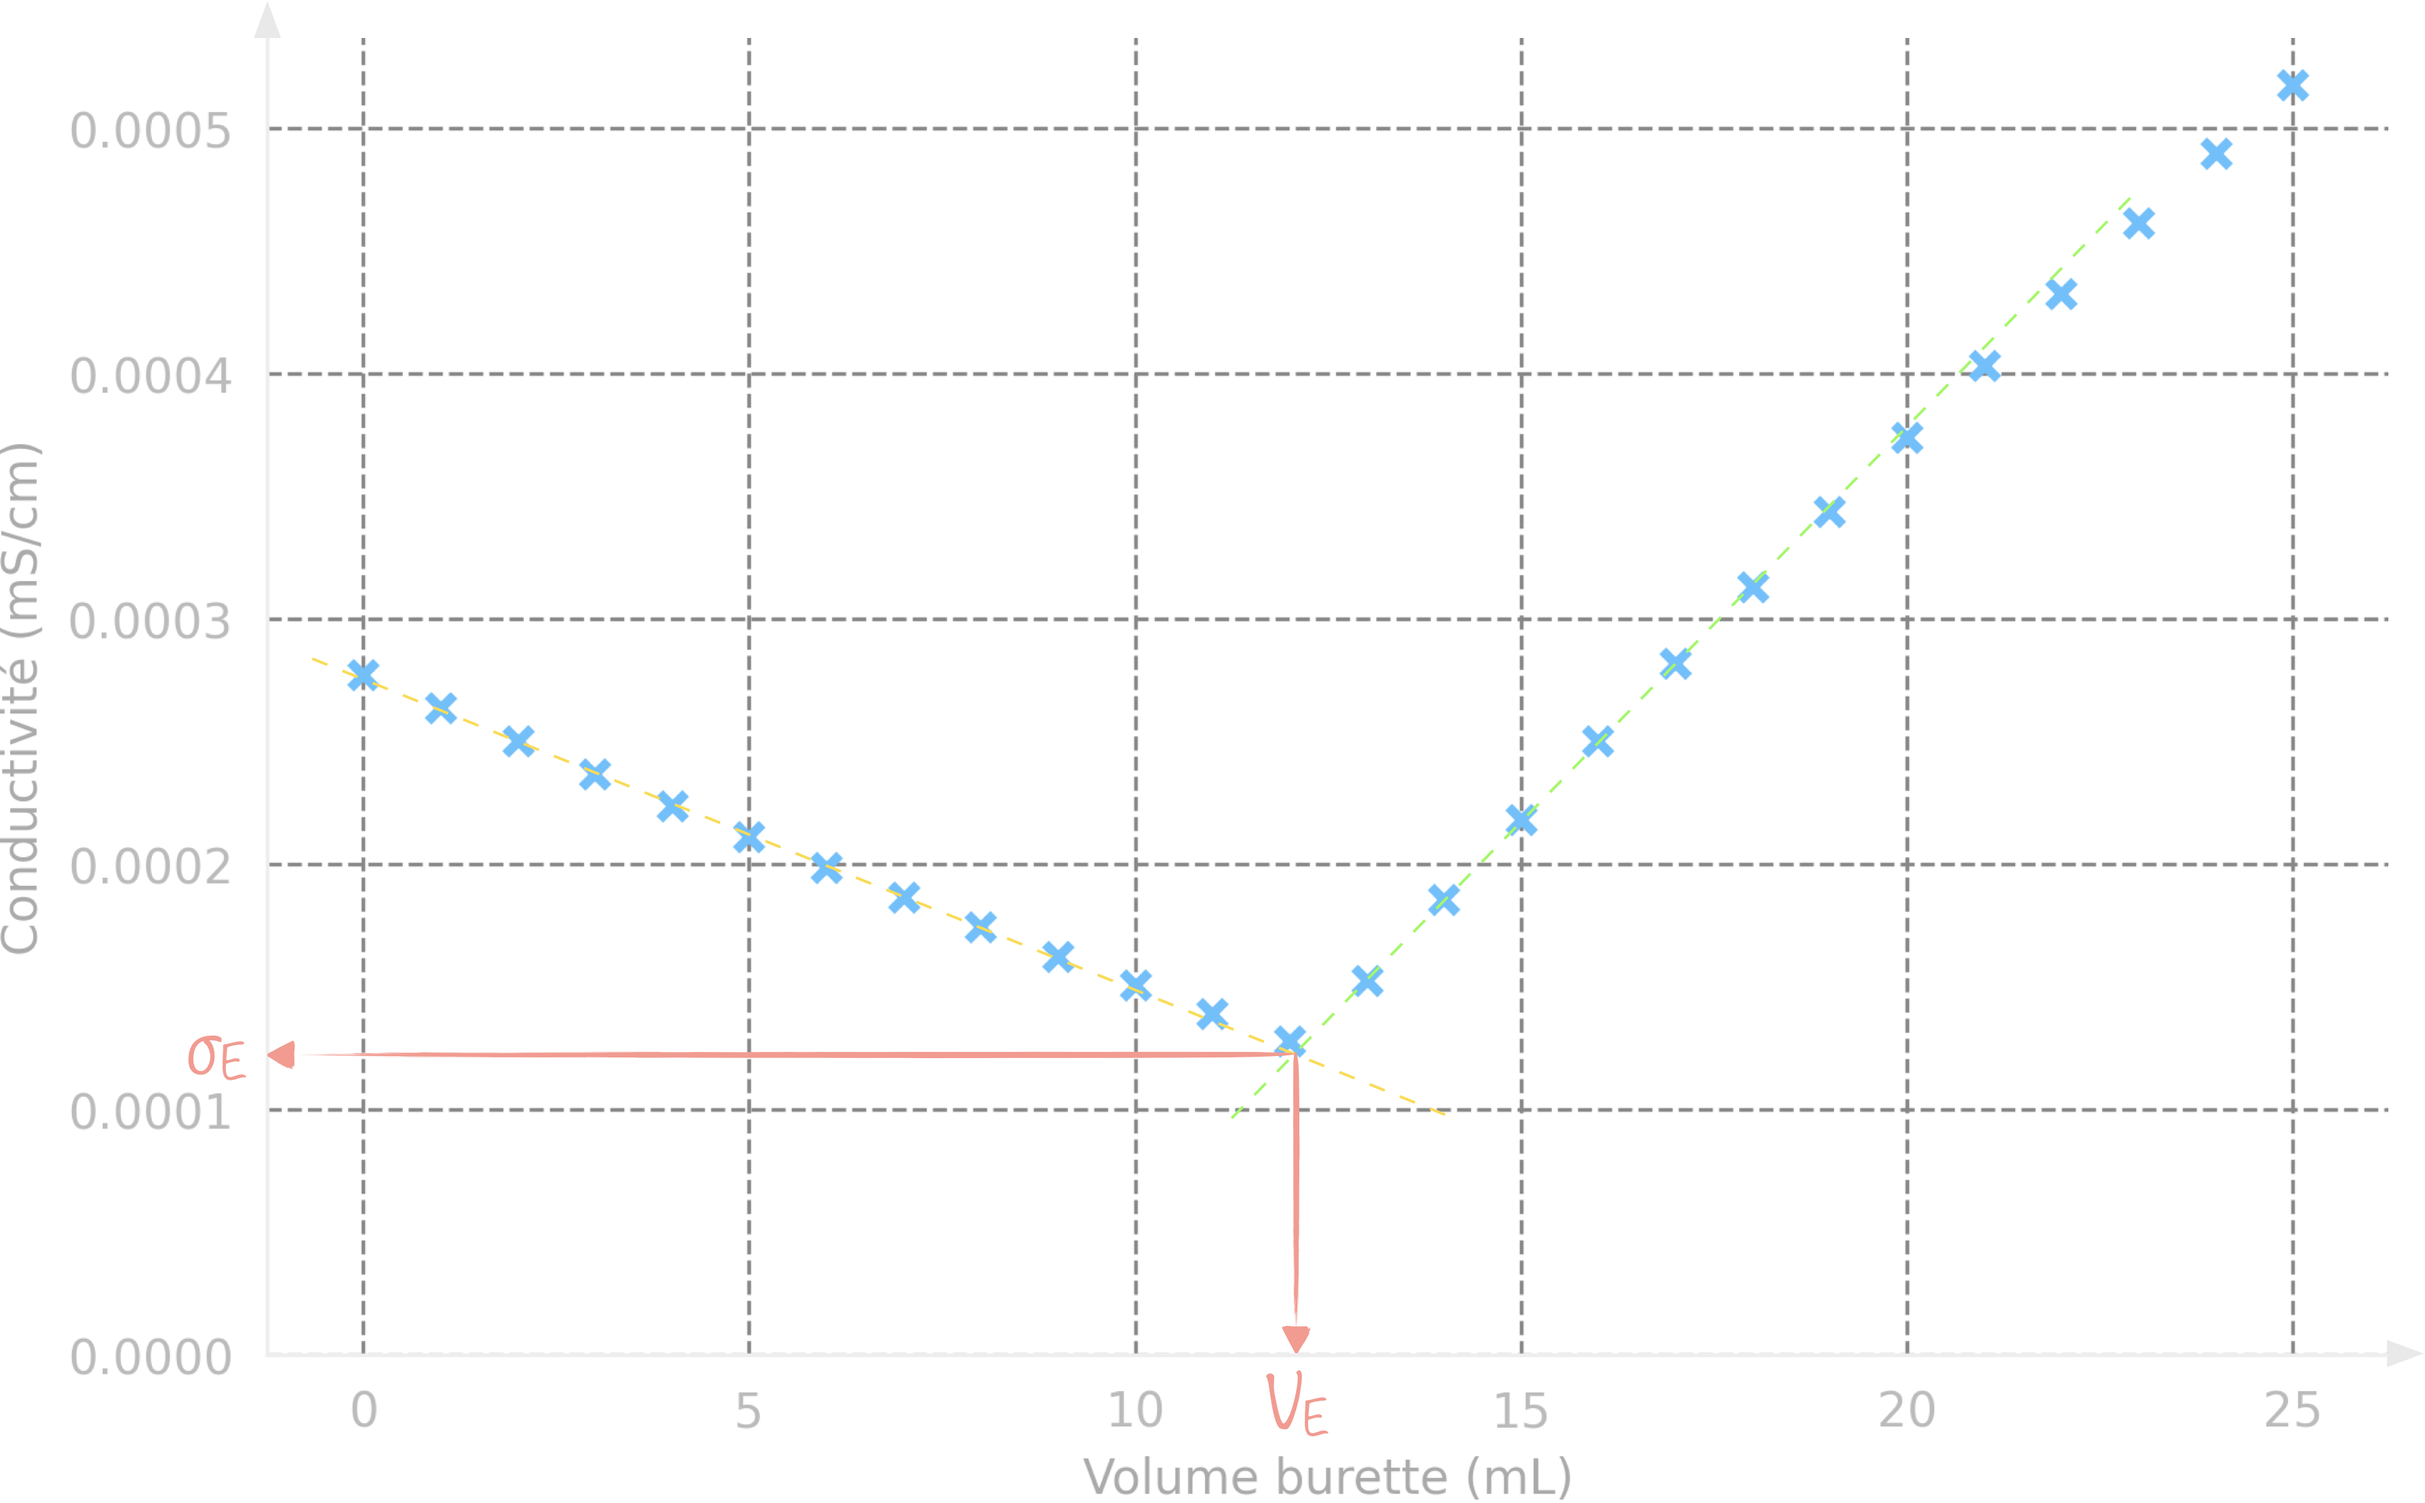
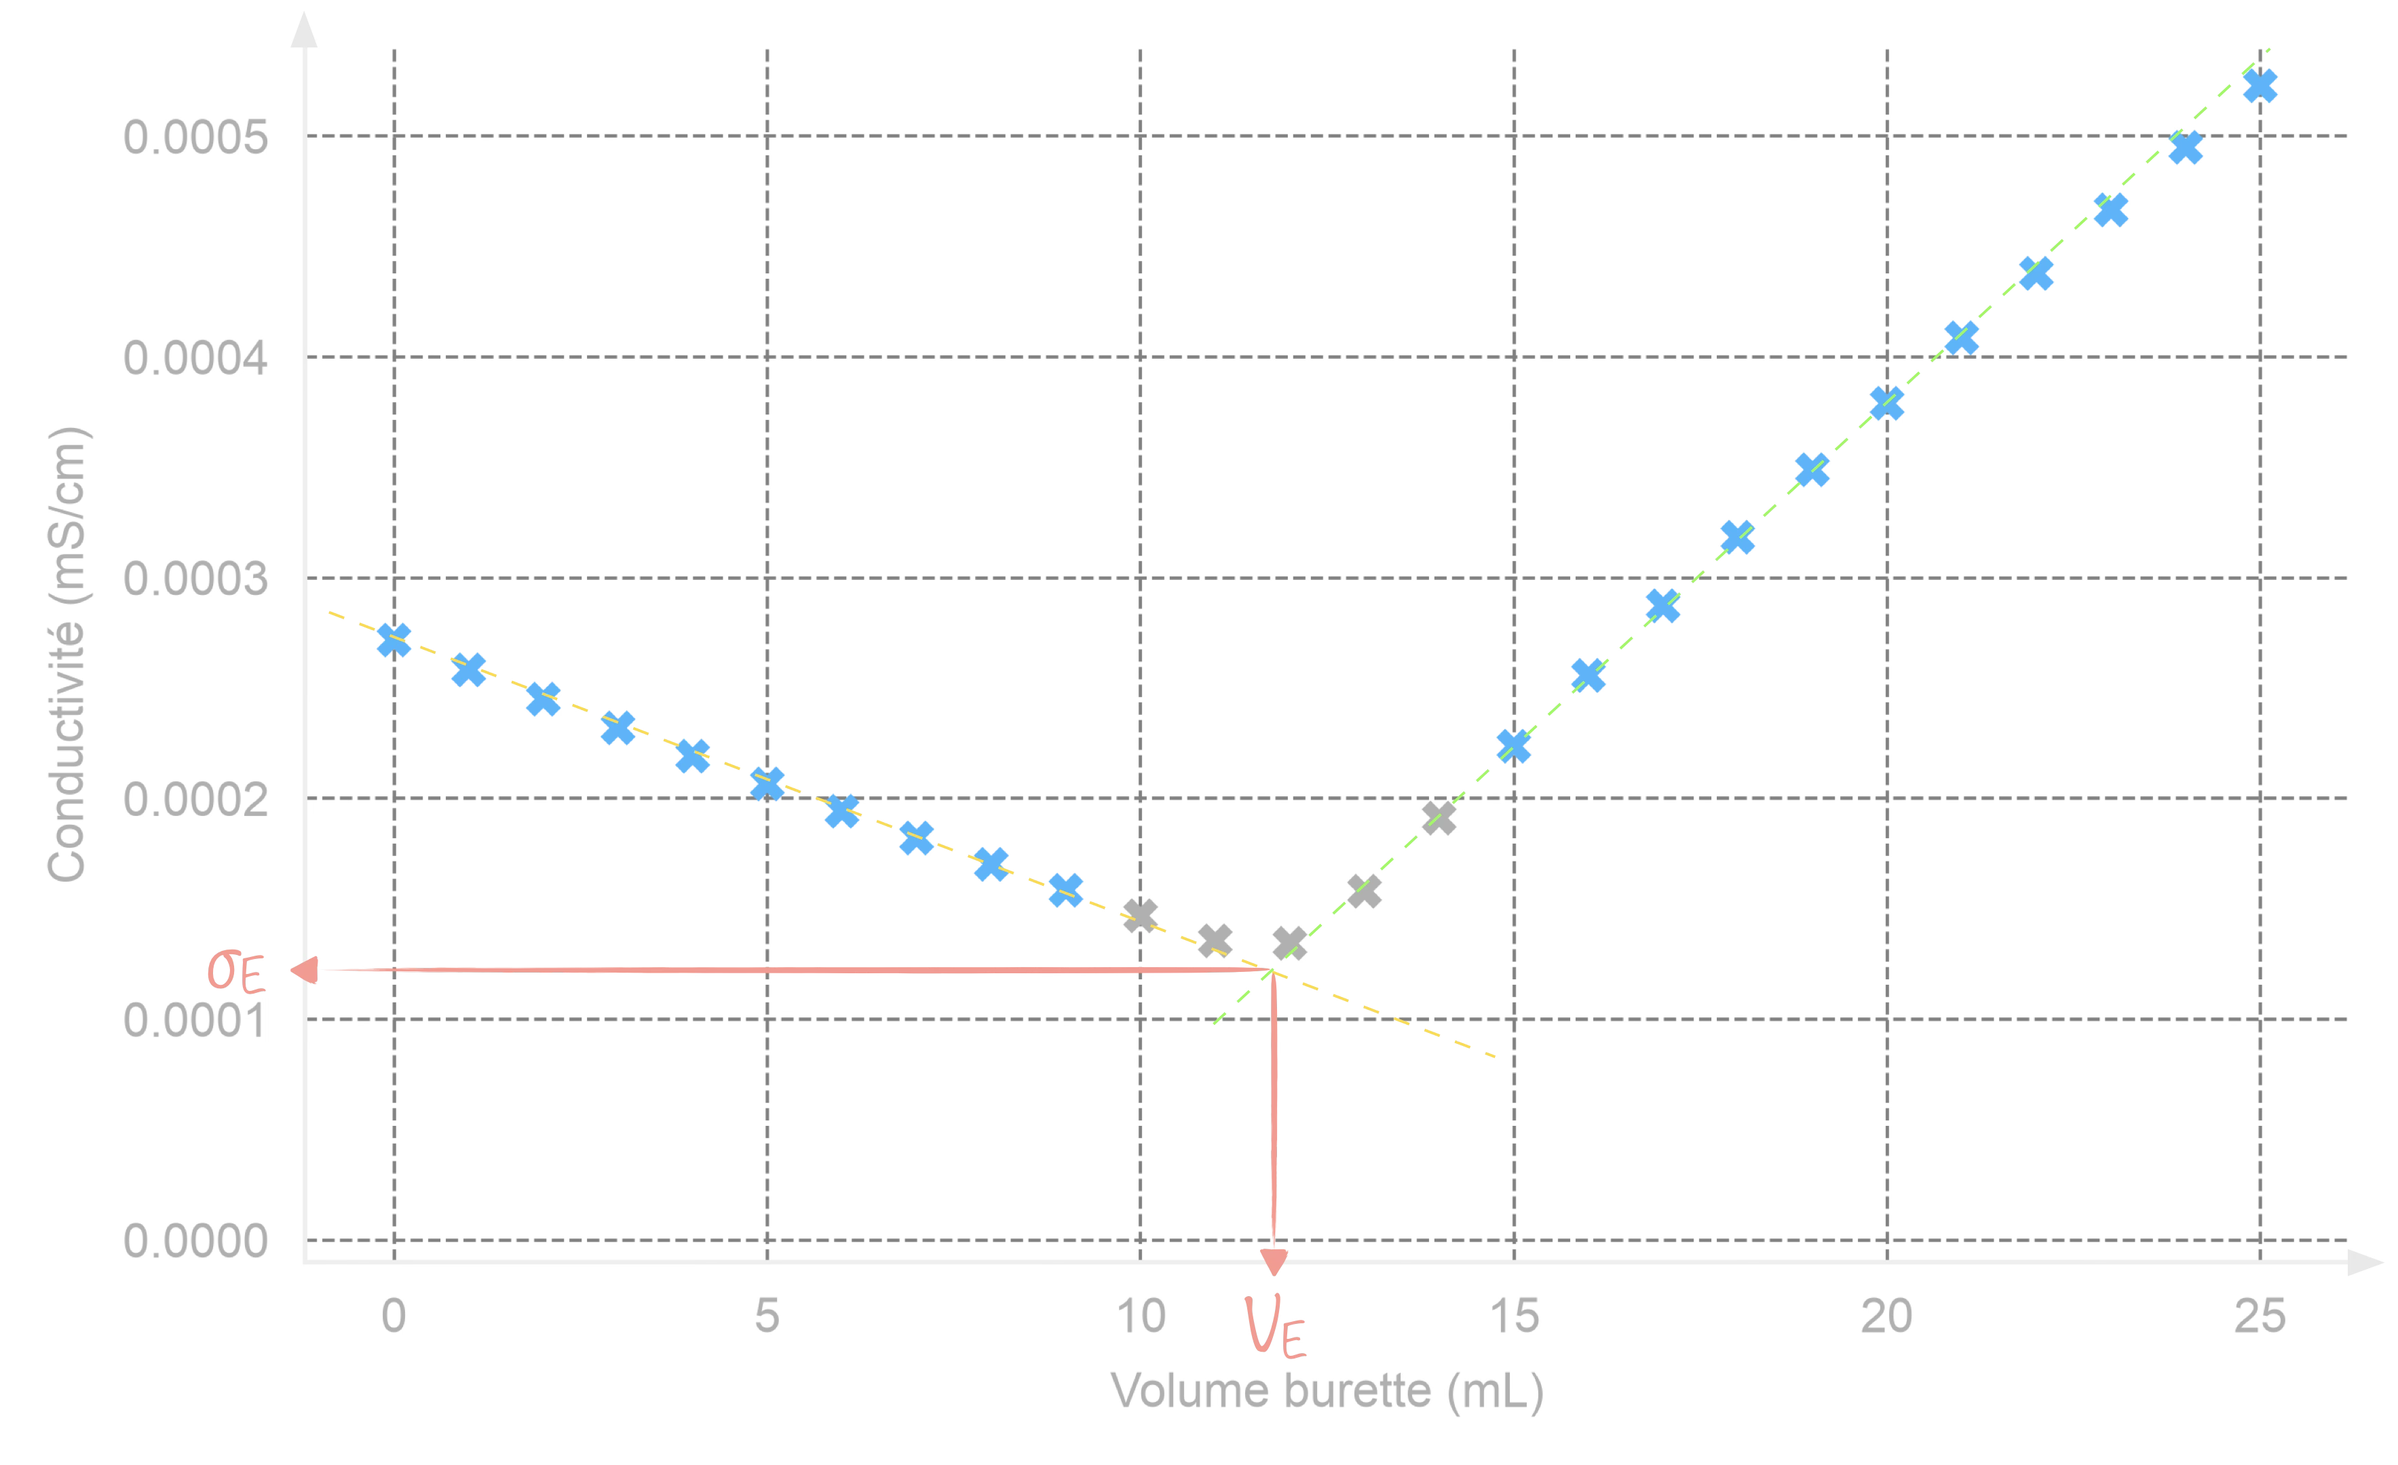
-

diff --git a/content/tspe/titrages/_index.md b/content/tspe/titrages/_index.md
@@ -119,7 +119,7 @@ Comment évoluent les quantités de matière<br>dans le mélange réactionnel en
 <div class="fragment fade-up" style="position:relative;margin:auto;padding:10px 50px 0px 50px;border: solid 5px #FF968D; border-radius: 15px;font-size:1.5em;width:fit-content;">
 <div>
 $$
-\frac{n_\ce{A}}{a}=\frac{n_{\ce{B},E}}{b}
+\frac{n_\ce{A_\text{initial}}}{a}=\frac{n_{\ce{B}_\text{versé à l'équivalence}}}{b}
 $$
 </div>
 </div>
@@ -253,7 +253,7 @@ Exemple d'une courbe donnée à l'exercice<br>"Eau de Quinton" tombé en 2025
 
 <div class="r-stack">
   <img src="/extitcond.png"      style="width:70%">
-  <img src="/extitcond-corr.png" class="fragment fade-in" style="width:70%; transition-duration:1.5s">
+  <img src="/extitcond-corr.png" class="fragment fade-in" style="width:70%; transition-duration:0.5s">
 </div>
 
 {{%note%}}
